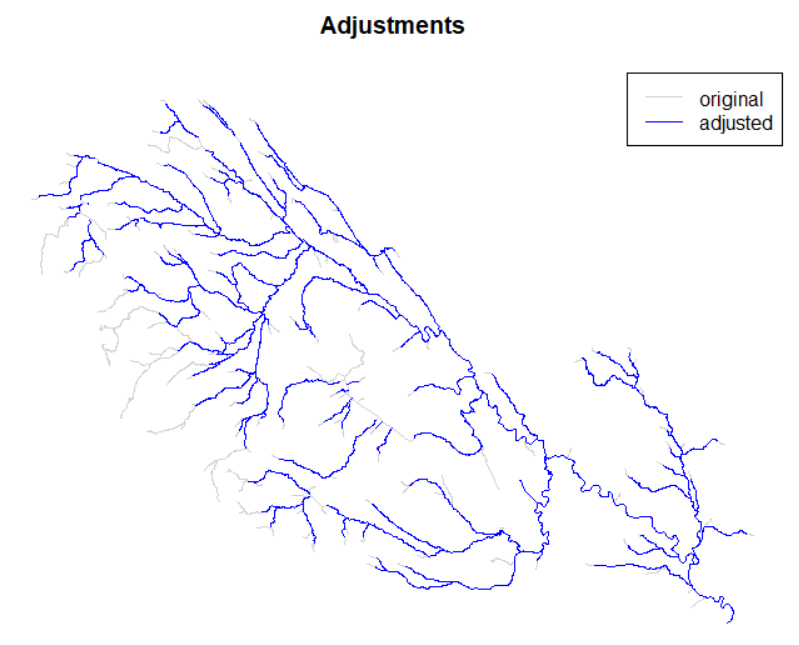
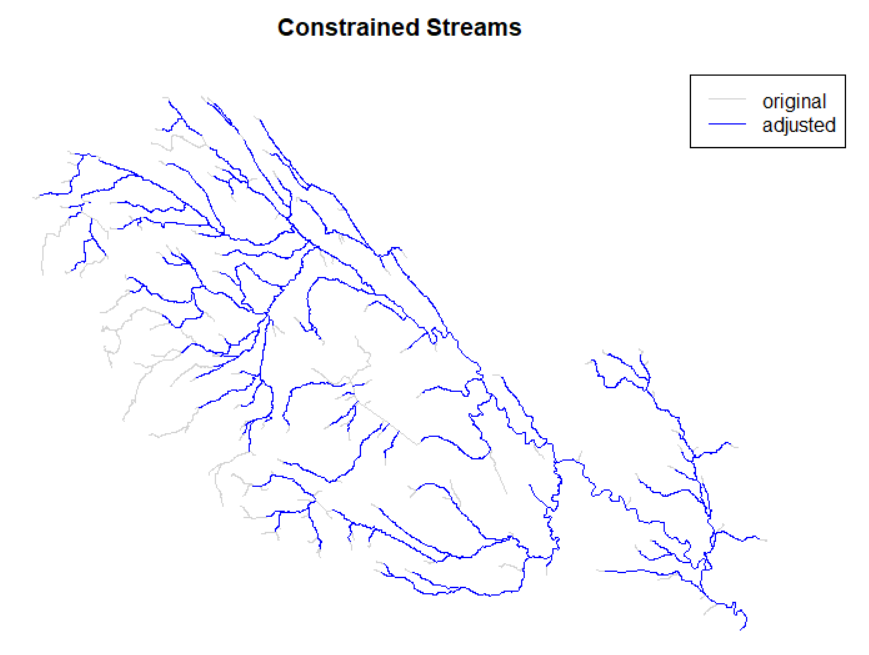
stable tested

diff --git a/README.md b/README.md
@@ -29,20 +29,19 @@ An example dataset is included in the wsep.t2 package for the Tsolum River water
 
 ```r
   # Run with sample dataset
-  
+  library(wsep.t2)
   data(TsolumStreams)
   strm <- TsolumStreams
-  
   data(TsolumRoads)
   roads <- TsolumRoads
 
-  # Import your own data here (uncomment lines)
+  # Import your own data here (update directories and uncomment lines)
   # library(sf)
   # strm <- st_read(dsn = "my_watershed.gdb", layer = "my_streams")
   # roads <- st_read(dsn = "my_watershed.gdb", layer = "my_roads")
   
 ```
-### Create the Stream Layer ###
+## Create the Stream Layer ##
 
 Prior to sampling sites across a watershed several pre-processing steps are necessary to refine the stream network sampling frame. These pre-processing steps ensure that the field sampling program will be successful and reduce the probability of last minute adjustments in the field. The pre-processing steps are as follows:
 
@@ -52,49 +51,37 @@ Prior to sampling sites across a watershed several pre-processing steps are nece
 4. Restricted access due to ownership or safety (not included, but recommended)
 
 ```r
-
   # Load the WSEP Tier 2 R-package
   library(wsep.t2)
 
-  # Load the sample data set for the
-  # Tsolum River near Courtenay BC
+  # Load the sample data set for the Tsolum River near Courtenay BC
   data(TsolumStreams)
 
-  # Will must project our data so that
-  # x,y are cartesian coordinates with units of meters
+  # Will must re-project our data so that x,y are cartesian coordinates with units of meters
   strm <- utm_projection(data = TsolumStreams)
 
-
-  # Then constrain the sampling frame to remove 1st
-  # order tribs less than 600m in length
-  # and clip the upper 300m off of other tributaries
+  # Then constrain the sampling frame to remove 1st order tribs less than 600m in length and clip the upper 300m off of other tributaries. see ?constrain_streams for details
   c_ctrm <- constrain_streams(strm = strm,
-                          length_remove = 600,
-                          length_trim = 300)
+                              length_remove = 600,
+                              length_trim = 300)
 
-
-  # Remove lakes and other lotic reaches
+  # Remove lakes and other lotic reaches. Consider removing any other lakes manually or through a simple filter
   c_strm <- remove_lentic_bcfwa(strm = c_ctrm,
                                  EDGE_TYPE = "EDGE_TYPE")
 
-  # Consider removing any other lakes manually or through a simple filter
-
-  # Remove alpine areas - all segments over 800m
+  # Remove alpine areas - In this example set to all segments over 800 m (adjust for your region)
   ca_strm <- remove_alpine_bcfwa(strm = c_strm,
                               elevation_threshold = 800)
 
 
-  # (Optional) Visualize original (raw) and constrained streams
+  # (Optional) Visualize original (raw) and constrained streams. Finalize and adjust with any additional filters
   strm1_plot <- sf::st_zm(strm)
   strm2_plot <- sf::st_zm(ca_strm)
   plot(sf::st_geometry(strm1_plot), col = "lightgrey",
-       main = "Adjustments")
+       main = "Constrained Streams")
   plot(sf::st_geometry(strm2_plot), col = "blue", add = TRUE)
   legend("topright", c("original", "adjusted"),
          col = c("lightgrey", "blue"), lwd = 1)
-
-  # Finalize and adjust with any additional filters
-
 ```
 <img src='man/figures/constrained_stream.PNG' align="center" height="450" style="padding: 10px;"/>
 
@@ -109,57 +96,54 @@ Create a new field called `strata` that divides the remaining stream network bas
   plot(ca_strm["strata"], main = "Sampling Stratum")
 ```
 
-### Site Type A: Stream Crossings ###
+## Site Type A: Stream Crossings ##
 
-A list of stream crossings in the watershed can be generated by taking the intersection of the stream layer and the road layer. We can then use the stream crossing layer as our first sampling frame to select sites to assess connectivity (fish passage) and sediment input.
+A list of stream-road crossings in the watershed can be generated by taking the intersection of the stream layer and the road layer. We can then use the stream crossing layer as our first sampling frame to select sites to assess connectivity (fish passage) and sediment inputs.
 
-Site Type and strata: Generate a random sample from the list of stream crossings for each of the two strata (stratum 1: <3rd order vs. stratum 2: ≥ 3rd order).
+Site Type and strata: Generate a random sample from the list of stream crossings for each of the two strata (stratum 1: < 3rd order vs. stratum 2: ≥ 3rd order).
 
 ```r
   data("TsolumRoads")
-  # Ensure roads match projection
-  roads <- utm_projection(data = TsolumRoads)
-  # Define crossings as the intersection
-  crossings <- sf::st_intersection(ca_strm, roads)
-
   
+  # Ensure road projection matches stream
+  roads <- utm_projection(data = TsolumRoads)
+  
+  # Define crossings as the intersection of streams and roads
+  crossings <- sf::st_intersection(ca_strm, roads)
+  
+  # Take a random sample of crossings by strata
   site_type_a <- grouped_random_sample(data = crossings,
                         group_name = "strata",
                         n = 20)
 
+  # -------------------------------------------
   # (Optional) visualize
   strm_plot <- sf::st_zm(ca_strm)
   road_plot <- sf::st_zm(roads)
   plot(sf::st_geometry(strm_plot), col = "darkblue", main = "Site Type A (stream crossing)")
   plot(sf::st_geometry(road_plot), add = TRUE, col = "burlywood")
   plot(sf::st_geometry(site_type_a), add = TRUE, col = ifelse(site_type_a$strata == "stratum_1", "black", "red"), pch = 19)
-  legend("topright",
-         c("roads", "streams", "stratum 1", "stratum 2"),
-         col = c("burlywood", "darkblue", "black", "red"),
-         lwd = c(1, 1, NA, NA),
-         pch = c(NA, NA, 19, 19))
-
+  legend("topright", c("roads", "streams", "stratum 1", "stratum 2"), col = c("burlywood", "darkblue", "black", "red"), lwd = c(1, 1, NA, NA), pch = c(NA, NA, 19, 19))
 ```
 
 <img src='man/figures/site_type_a.PNG' align="center" height="450" style="padding: 10px;"/>
 
 
-### Site Type B: Road Proximity ###
+## Site Type B: Road Proximity ##
 
 Sample streams in close proximity to roads.
 
-1. Apply a buffer (20m for <3rd order and 40 m for ≥3rd order) streams.
-2. Taking the intersection of roads and this buffer.
-3. Removing any stream crossings (site Type A), by excluding any cases within 100m of a crossing to avoid double counting.
-4. Removing any segments <50m in length unless they are near a switch-back (determined by manual review of the map). [manual step not automated in R code]
-5. Providing the start point of the segment as well as the segment length and strata id (<3rd order vs. ≥ 3rd order) and mapping the entire segment on the field maps to facilitate sampling.
-6. Generate a random sample from the Site Type B list the strata with <3rd order streams.
+1. Apply a buffer (Strata 1: 20m for < 3rd order and, Strata 2: 40 m for ≥3rd order) streams.
+2. Take the intersection of roads and this buffer.
+3. Removing any stream crossings (site Type A), by excluding any cases within 100 m of a crossing to avoid double counting.
+4. Removing any segments < 50m in length unless they are near a switch-back (determined by manual review of the map). [manual step not automated in R code - added afterwards]
+5. Provide the start point of the segment as well as the segment length and strata id (<3rd order vs. ≥ 3rd order) and mapping the entire segment on the field maps to facilitate sampling.
+6. Generate a random sample from the Site Type B list the strata with < 3rd order streams.
 7. Append the complete list of Site Type B from the ≥ 3rd order strata.
 8. Create a field checklist with at least the following fields: unique identifier, coordinates of start point and end point, segment length, and Strata.
 
 
 ```r
-
   # Run the function for road proximity samples
   ?road_proximity_sample
   
@@ -175,20 +159,17 @@ Sample streams in close proximity to roads.
   )
   
   # Get the points object
+  names(type_b$points)
   site_type_b <- type_b$points
 
+  # -------------------------------------------
   # (Optional) visualize
   strm_plot <- sf::st_zm(ca_strm)
   road_plot <- sf::st_zm(roads)
   plot(sf::st_geometry(strm_plot), col = "darkblue", main = "Site Type B (road proximity)")
   plot(sf::st_geometry(road_plot), add = TRUE, col = "burlywood")
   plot(sf::st_geometry(site_type_b), add = TRUE, col = ifelse(site_type_a$strata == "stratum_1", "black", "red"), pch = 19)
-  legend("topright",
-         c("roads", "streams", "stratum 1", "stratum 2"),
-         col = c("burlywood", "darkblue", "black", "red"),
-         lwd = c(1, 1, NA, NA),
-         pch = c(NA, NA, 19, 19))
-
+  legend("topright", c("roads", "streams", "stratum 1", "stratum 2"), col = c("burlywood", "darkblue", "black", "red"), lwd = c(1, 1, NA, NA), pch = c(NA, NA, 19, 19))
 ```
 
 <img src='man/figures/site_type_b.PNG' align="center" height="450" style="padding: 10px;"/>
